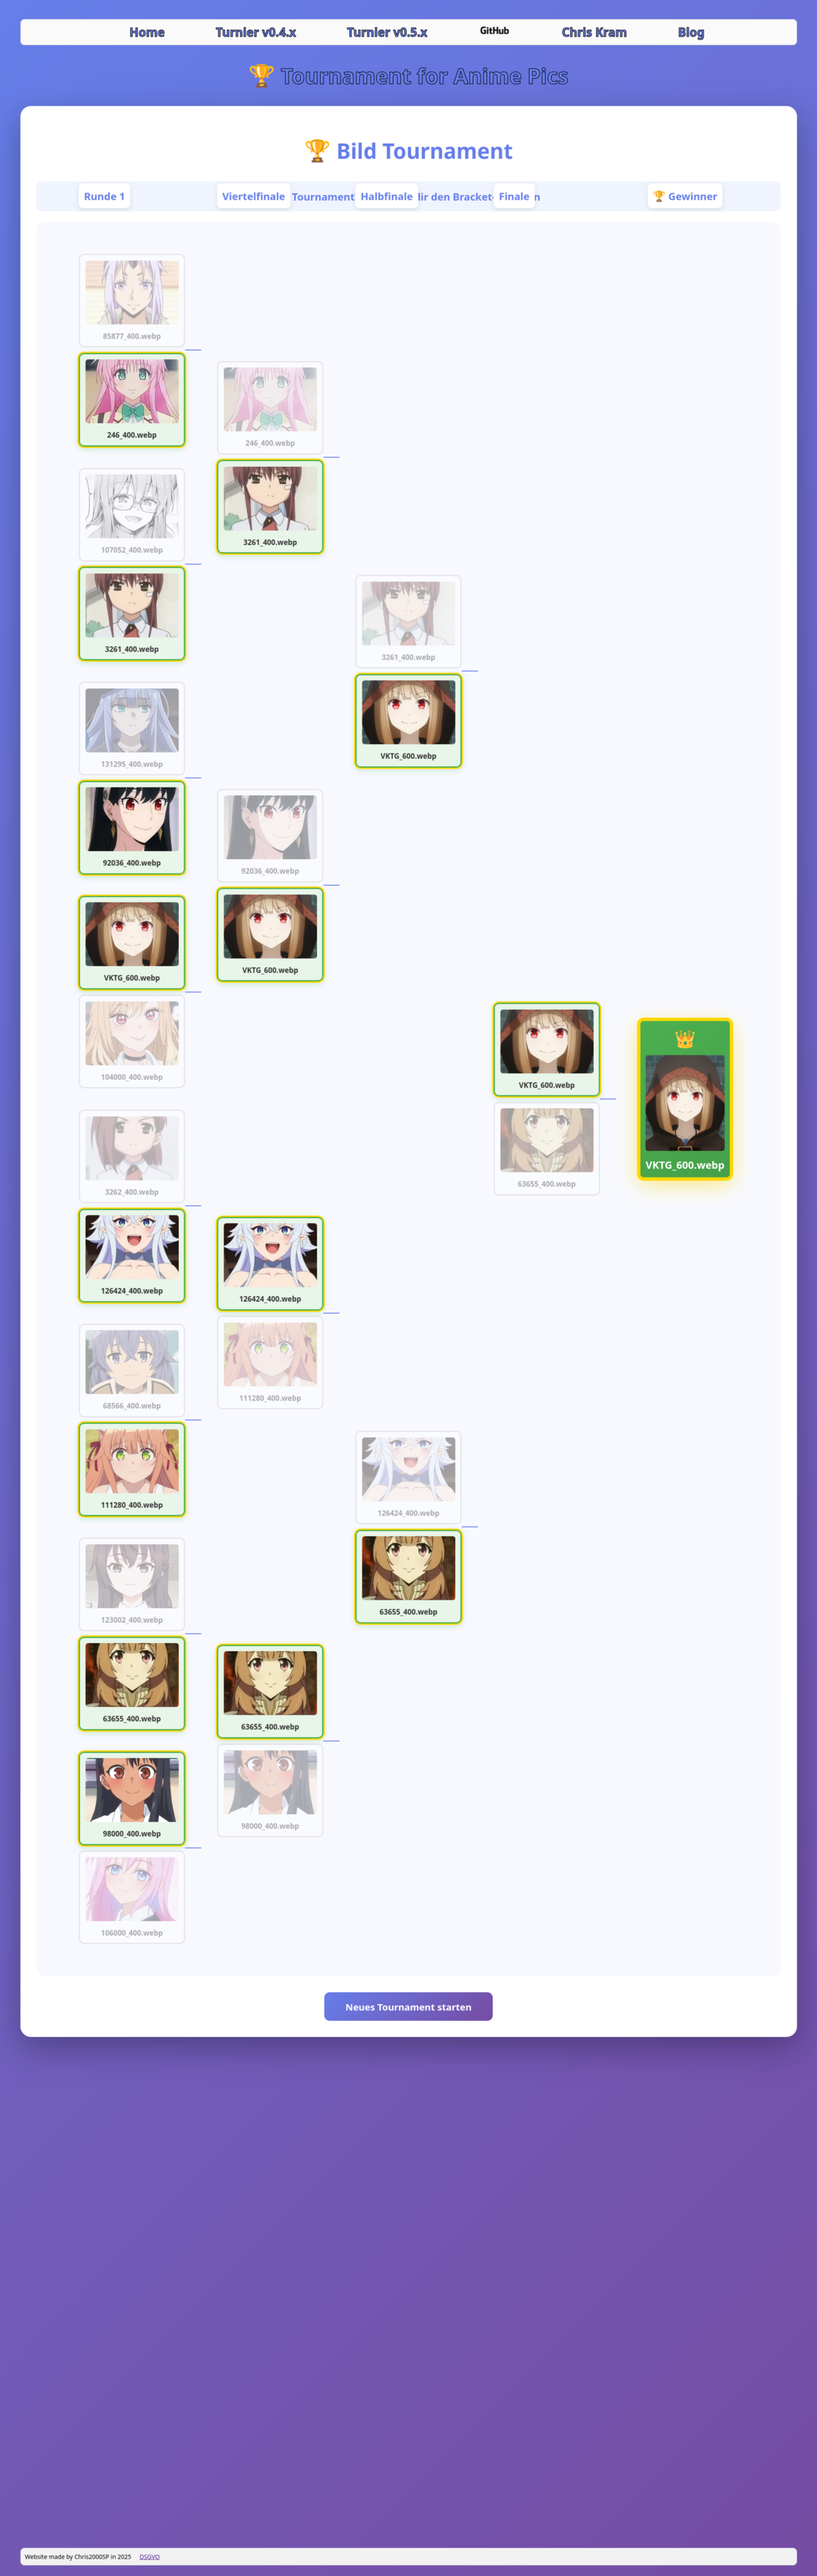
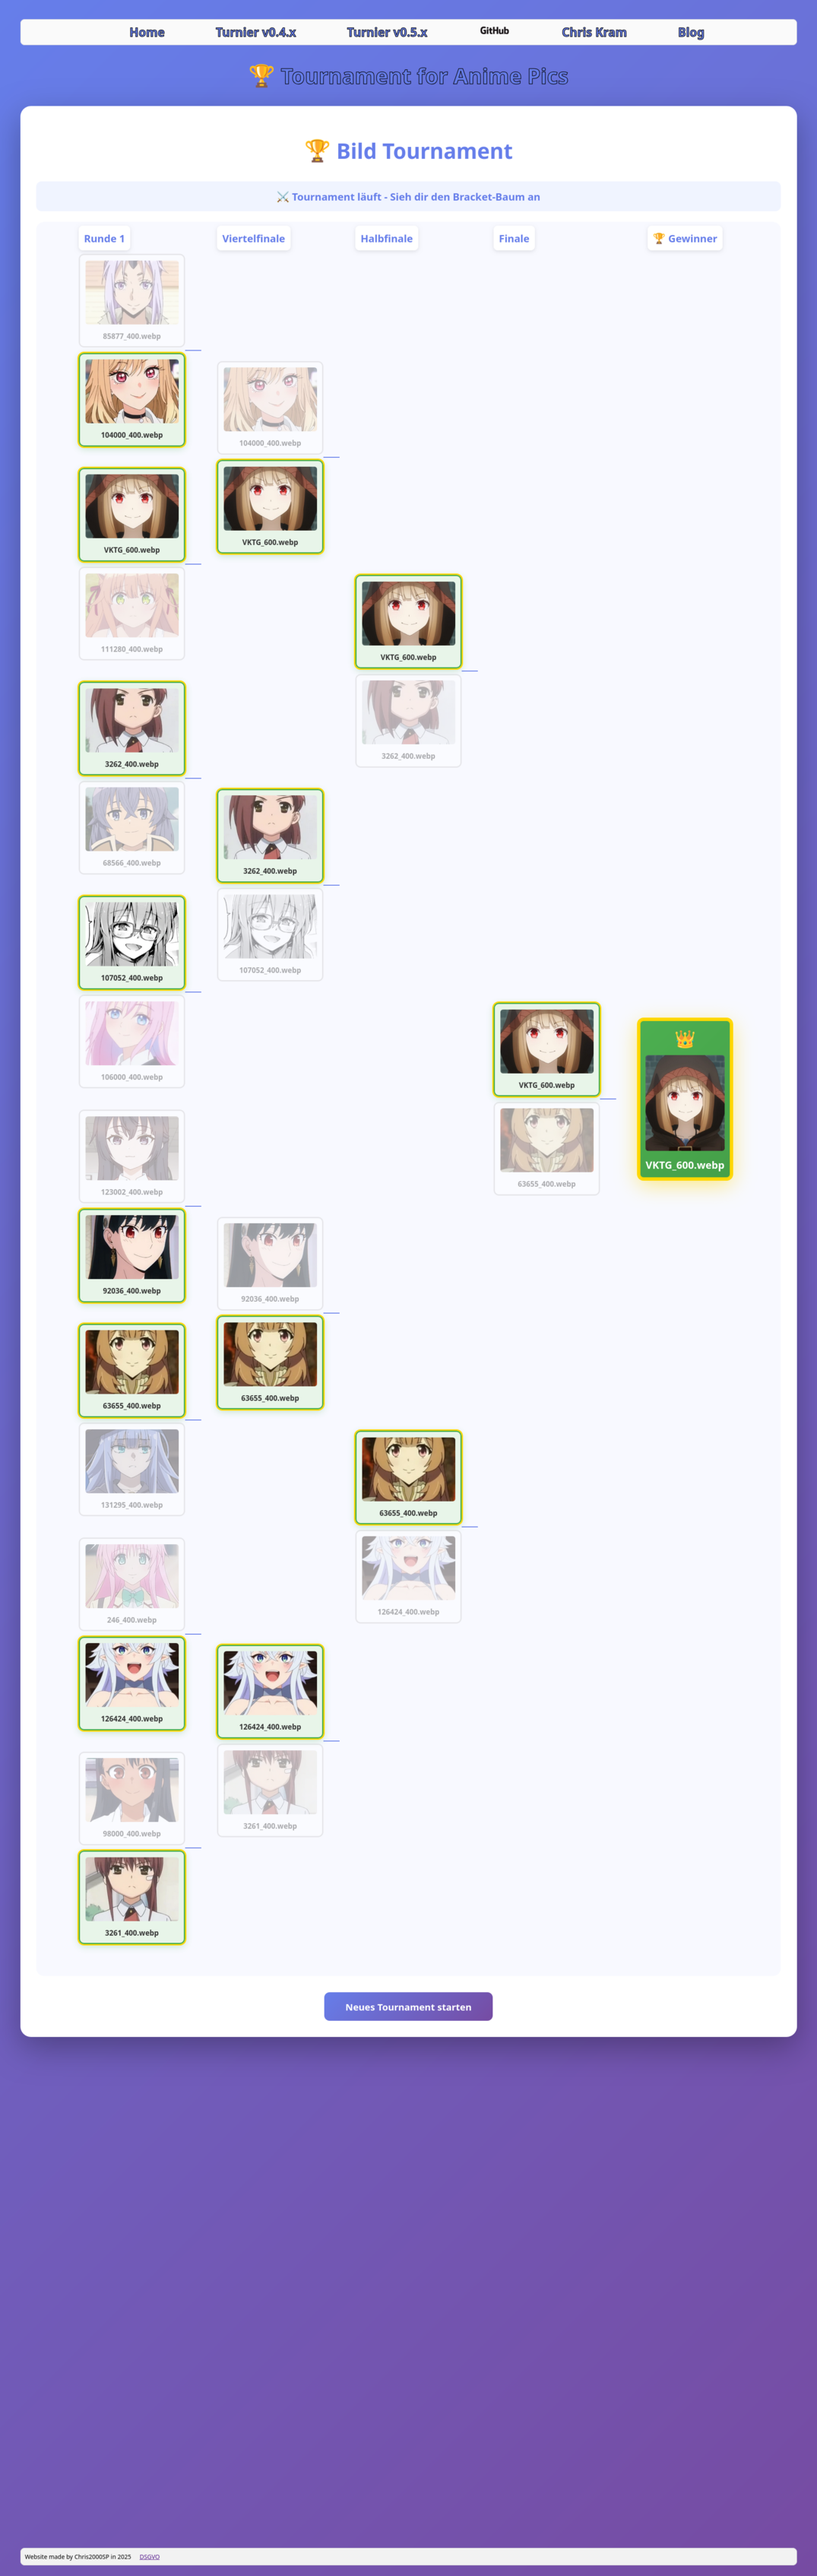
Fix Readme.md Pic.

diff --git a/assets/sass/main.sass b/assets/sass/main.sass
@@ -453,7 +453,7 @@ input[type="file"]
     border-radius: $radius-medium
     box-shadow: $shadow-light
     position: absolute
-    top: 345px
+    top: 424px
 
 .match-pair 
   display: flex
